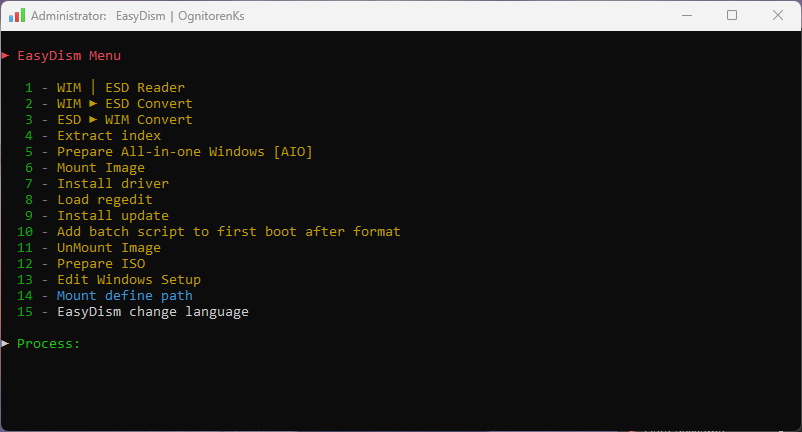
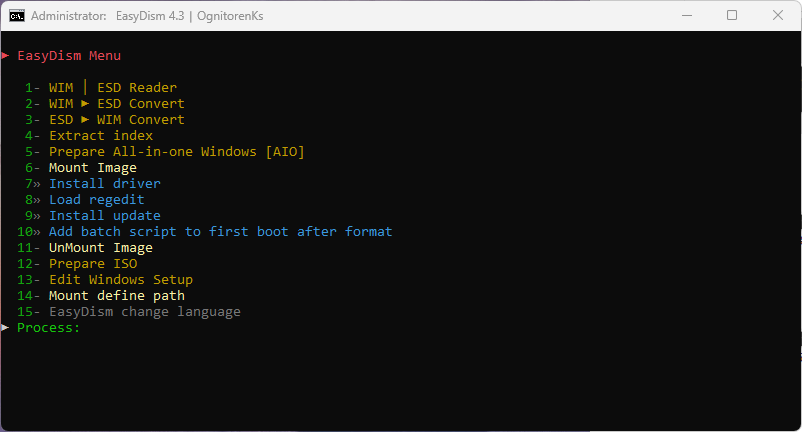
4.4

diff --git a/Release.Notes.md b/Release.Notes.md
@@ -5,16 +5,20 @@
 -   Site: [https://ognitorenks.blospot.com](https://ognitorenks.blospot.com)
 
 
-<details><B><summary> Versiyon 4.3 ► 02.05.2025 </B></summary>
+<details><B><summary> Versiyon 4.4 ► 08.05.2025 </B></summary>
+
+    • Ana menü teması düzenlendi.
+
+</details><details><B><summary> Versiyon 4.3 ► 02.05.2025 </B></summary>
 
     • NSudo hatası giderildi.
 
-<details><B><summary> Versiyon 4.2 ► 19.06.2024 </B></summary>
+</details><details><B><summary> Versiyon 4.2 ► 19.06.2024 </B></summary>
 
     • İmaj mount işlemi sonrası test için ekleyip unuttuğum 'pause' komutu kaldırıldı.
     • "Format sonrası ilk açılışa batch script ekle" bölümündeki tüm hatalar giderildi. Sorunsuz bir şekilde çalışması sağlandı.
 
-<details><B><summary> Versiyon 4.1 ► 25.05.2024</B></summary>
+</details><details><B><summary> Versiyon 4.1 ► 25.05.2024</B></summary>
 
     • "OgnitorenKs_Reader" başlığında nizami görüntü için kodlar düzenlendi.
     • "Hepsi bir arada Windows Hazırla [AIO]" bölümüne farklı mimari sürümlerin x86 üzerinde birleştirilmesiyle ilgili uyarı mesajı eklendi.
